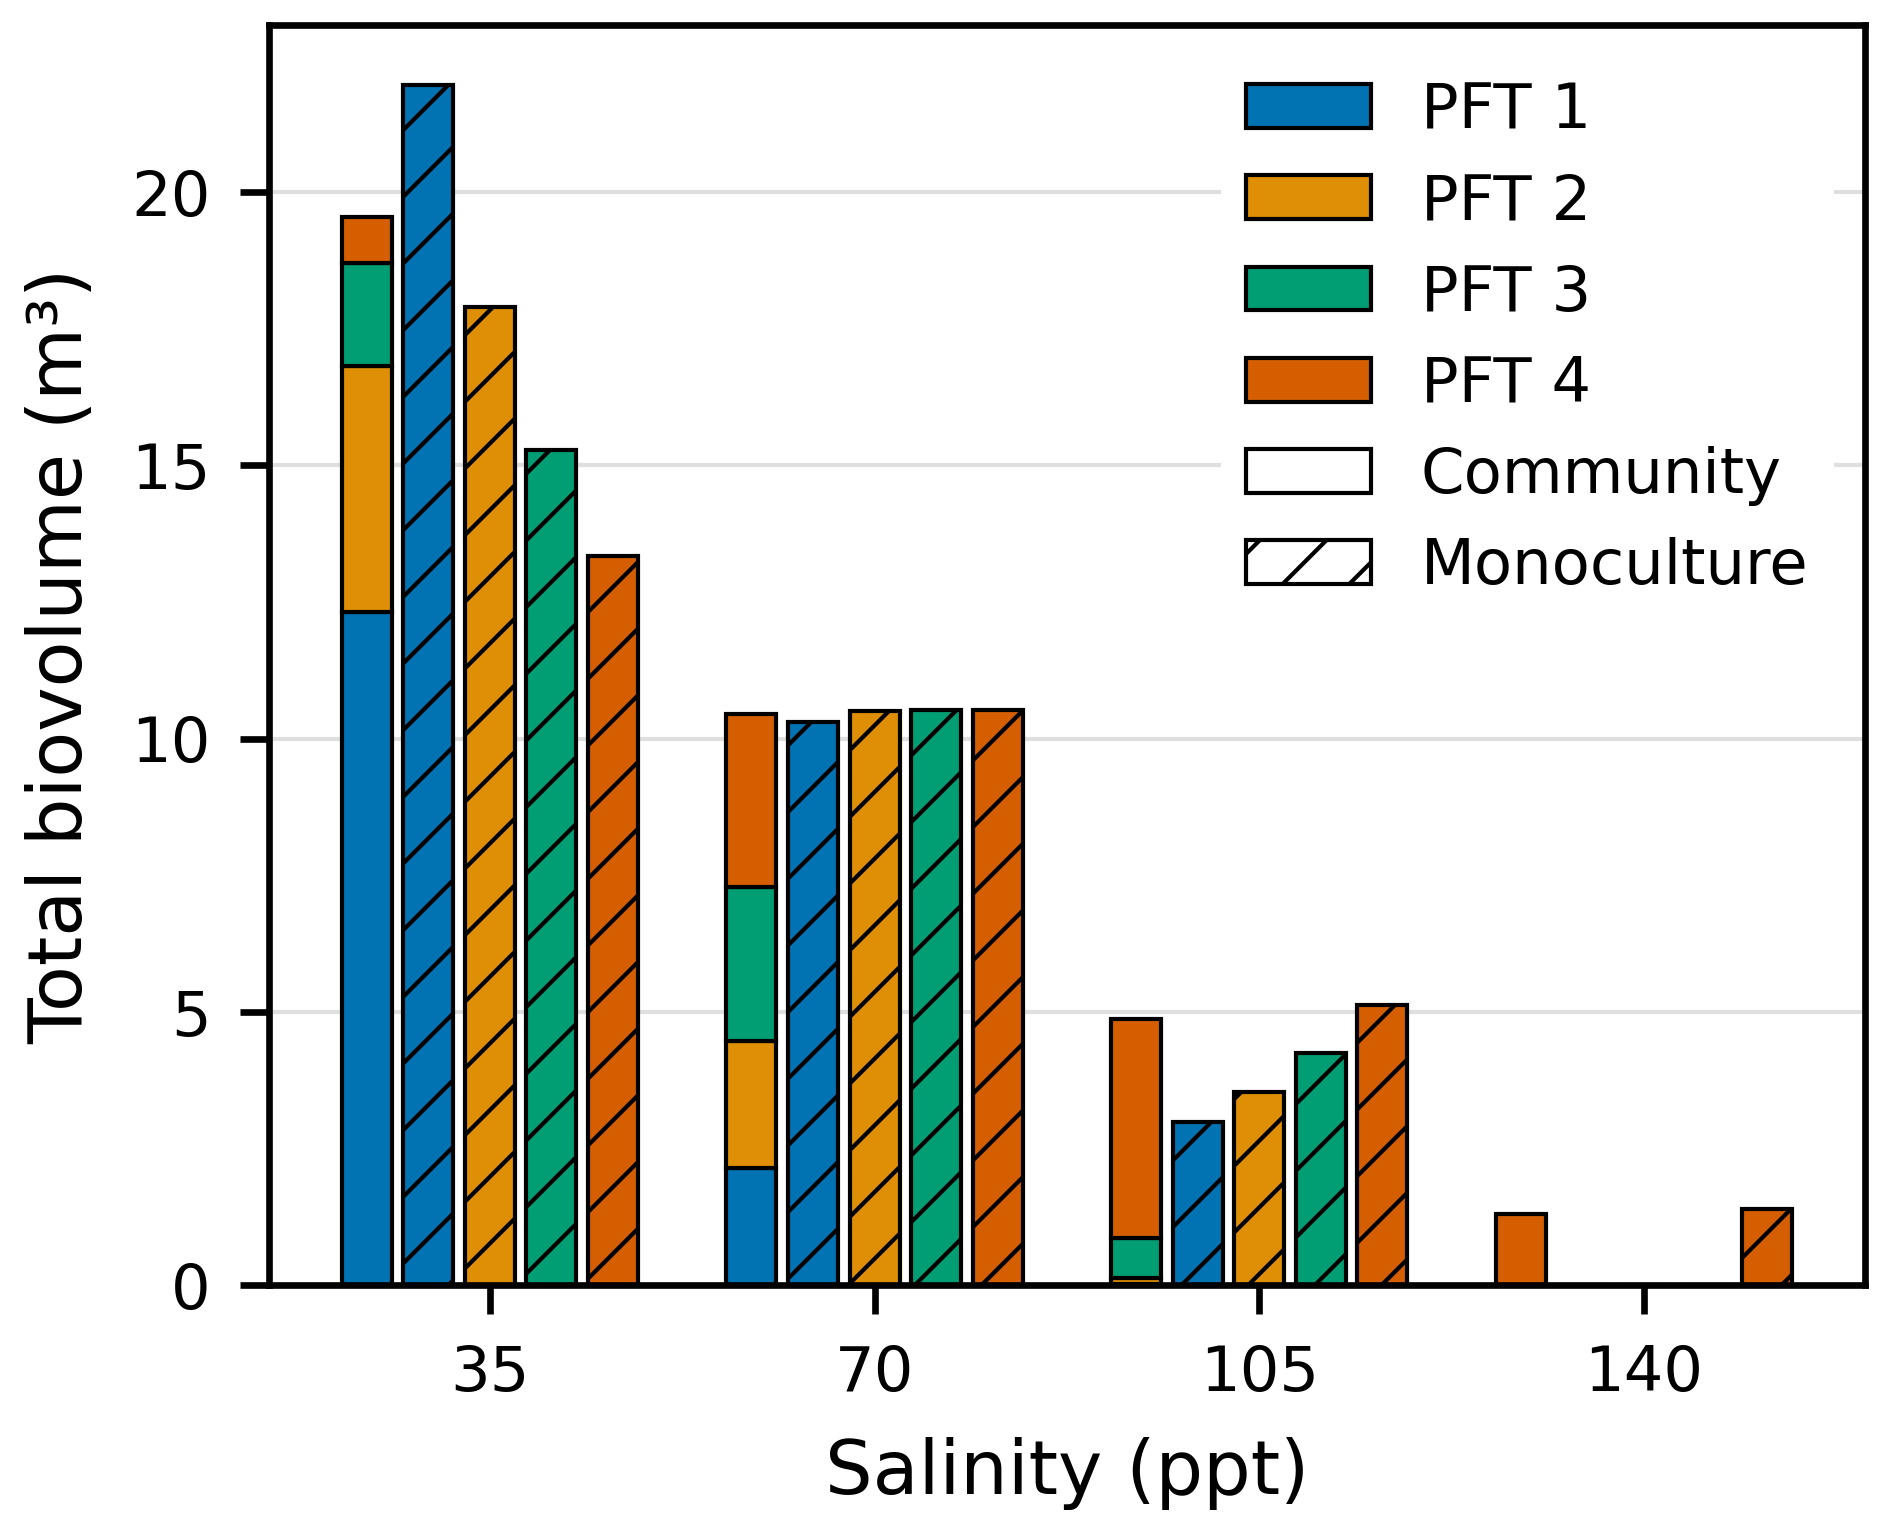
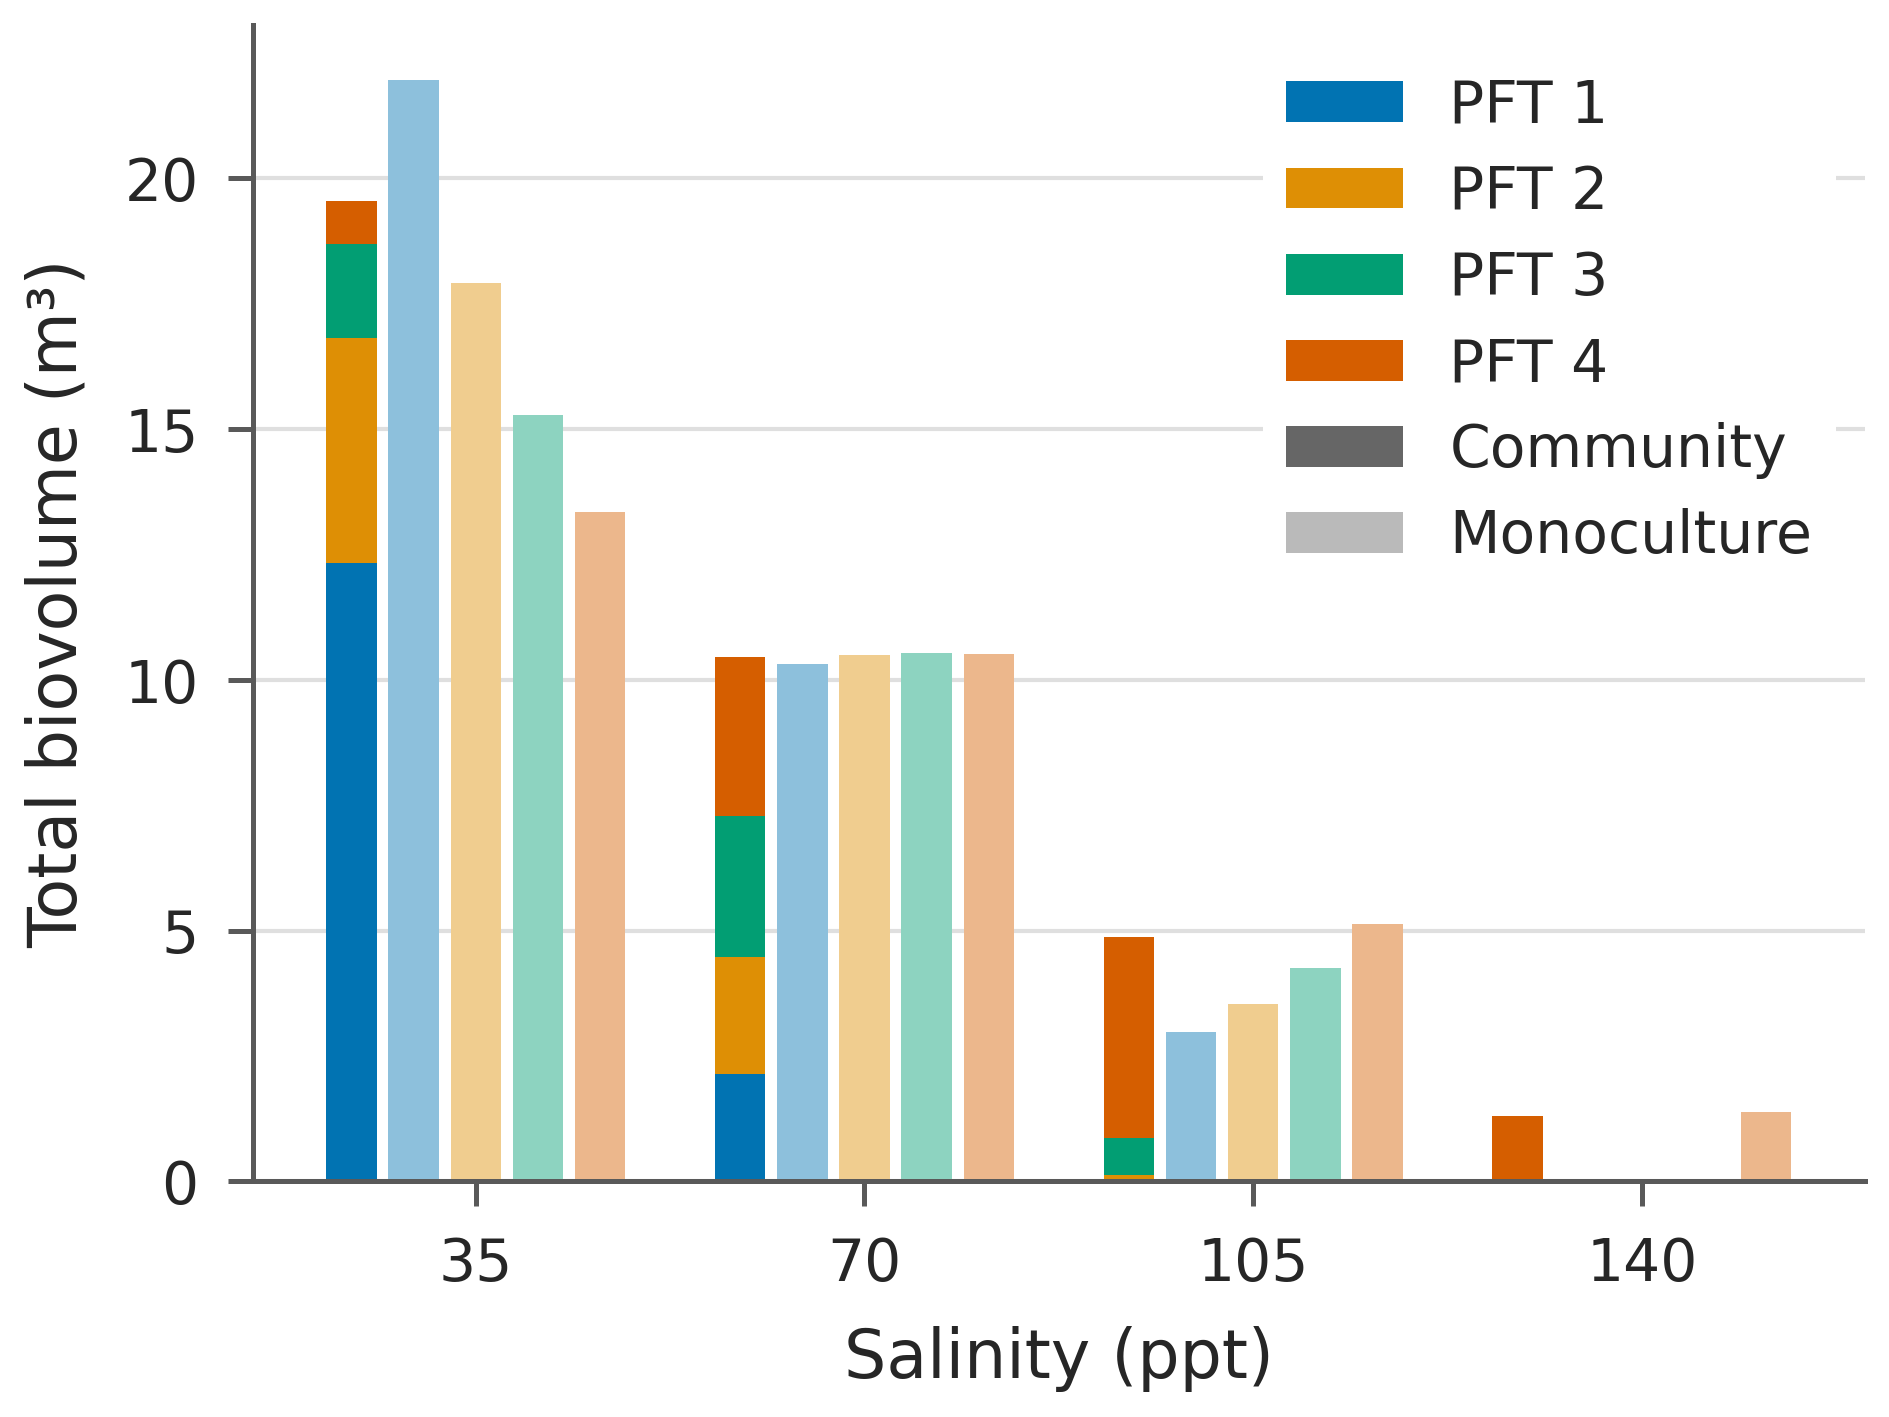
Soften figure style and update figure 2

Changed region(s): [[0.0, 0.0, 0.9995, 0.9936]]

diff --git a/source/03_fig2_community_vs_monoculture.py b/source/03_fig2_community_vs_monoculture.py
@@ -6,8 +6,8 @@
 # Purpose
 # -------
 # This script creates the main static community-vs-monoculture total biovolume
-# figure. Community simulations are shown as stacked PFT contributions, while
-# monoculture simulations are shown as hatched PFT-specific bars.
+# figure. Community simulations are shown as stacked PFT contributions in full
+# colour, while monoculture simulations are shown as pale PFT-specific bars.
 #
 # Data basis
 # ----------
@@ -23,7 +23,7 @@
 
 """
 Manuscript Figure 2:
-Static salinity - community (stacked) vs monoculture (hatched)
+Static salinity - community (stacked) vs monoculture (pale bars)
 
 Output:
     figures/main/fig2_community_vs_monoculture_median.png
@@ -35,6 +35,7 @@ import numpy as np
 import pandas as pd
 
 import matplotlib.pyplot as plt
+from matplotlib.colors import to_rgb
 from matplotlib.patches import Patch
 
 import figure_config as _config
@@ -50,7 +51,8 @@ ensure_dir = _utils.ensure_dir
 # Statistical version -> file prefix of its input tables.
 VERSION_PREFIXES = {"median": "", "mean": "MEAN_"}
 
-HATCH = "///"
+# Colour of the neutral legend entries for community / monoculture.
+LEGEND_GREY = "0.4"
 
 
 # =============================================================================
@@ -65,27 +67,41 @@ def read_matrix(filename):
     return mat
 
 
+def pale(color, strength=0.45):
+    """Opaque mix of a colour with white; strength 1 = original colour."""
+    return tuple(1 - strength * (1 - c) for c in to_rgb(color))
+
+
+def community_style(color):
+    """Full colour, no outline."""
+    return {"facecolor": color, "linewidth": 0}
+
+
+def monoculture_style(color):
+    """Pale colour, no outline."""
+    return {"facecolor": pale(color), "linewidth": 0}
+
+
 def draw_figure(comm_mat, mono_mat):
-    """Draw community (stacked) and monoculture (hatched) bars per salinity."""
-    fig, ax = plt.subplots(figsize=_config.figsize_mm(_config.WIDTH_HALF_MM, 65))
+    """Draw community (stacked) and monoculture (pale) bars per salinity."""
+    fig, ax = plt.subplots(figsize=_config.figsize_mm(_config.WIDTH_HALF_MM, 60))
 
     # Per salinity: one community bar followed by four monoculture bars.
     x_base = np.arange(len(SAL_STATIC))
     bar_gap = 0.16
     width = 0.13
     offsets = np.arange(1 + len(PFTS)) * bar_gap
-    bar_style = {"width": width, "edgecolor": "black", "linewidth": 0.5}
 
     bottom = np.zeros(len(SAL_STATIC))
     for pft in PFTS:
         vals = comm_mat.loc[SAL_STATIC, pft].values
-        ax.bar(x_base + offsets[0], vals, bottom=bottom,
-               color=pft_color_map[pft], **bar_style)
+        ax.bar(x_base + offsets[0], vals, width, bottom=bottom,
+               **community_style(pft_color_map[pft]))
         bottom += vals
 
     for i, pft in enumerate(PFTS, start=1):
-        ax.bar(x_base + offsets[i], mono_mat.loc[SAL_STATIC, pft].values,
-               color=pft_color_map[pft], hatch=HATCH, **bar_style)
+        ax.bar(x_base + offsets[i], mono_mat.loc[SAL_STATIC, pft].values, width,
+               **monoculture_style(pft_color_map[pft]))
 
     ax.set_xticks(x_base + offsets.mean(), [str(s) for s in SAL_STATIC])
     ax.set_xlabel("Salinity (ppt)")
@@ -93,13 +109,12 @@ def draw_figure(comm_mat, mono_mat):
     ax.set_axisbelow(True)
     ax.grid(axis="y", linewidth=0.5, alpha=0.4)
 
-    patch_style = {"edgecolor": "black", "linewidth": 0.5}
     handles = [
-        Patch(facecolor=pft_color_map[pft], label=f"PFT {pft}", **patch_style)
+        Patch(facecolor=pft_color_map[pft], edgecolor="none", label=f"PFT {pft}")
         for pft in PFTS
     ] + [
-        Patch(facecolor="white", label="Community", **patch_style),
-        Patch(facecolor="white", hatch=HATCH, label="Monoculture", **patch_style),
+        Patch(label="Community", **community_style(LEGEND_GREY)),
+        Patch(label="Monoculture", **monoculture_style(LEGEND_GREY)),
     ]
     ax.legend(handles=handles, loc="upper right")
 
@@ -111,7 +126,6 @@ def draw_figure(comm_mat, mono_mat):
 # =============================================================================
 
 _config.apply_style()
-plt.rcParams["hatch.linewidth"] = 0.5
 
 output_dir = ensure_dir(FIGURES_MAIN)
 

diff --git a/source/figure_config.py b/source/figure_config.py
@@ -71,22 +71,43 @@ def figsize_mm(width_mm, height_mm):
 # Global Matplotlib style
 # =============================================================================
 
-def apply_style(base_size=9):
+def apply_style(base_size=8):
     """
     Apply the shared manuscript figure style.
 
     All text sizes are relative to base_size, so changing it scales all text
     together. Figures use constrained layout, so they keep their exact size
     and labels are not cut off. Scripts should not set absolute font sizes.
+
+    Axes, ticks and text are thin and dark grey, without top and right axis
+    lines, so that the data stand out.
     """
+    small_size = base_size * 7 / 8
+    text_color = "0.15"
+    axes_color = "0.35"
+
     mpl.rcdefaults()
     plt.rcParams.update({
         "font.size": base_size,
         "axes.titlesize": "medium",
-        "xtick.labelsize": "small",
-        "ytick.labelsize": "small",
-        "legend.fontsize": "small",
-        "legend.title_fontsize": "small",
+        "xtick.labelsize": small_size,
+        "ytick.labelsize": small_size,
+        "legend.fontsize": small_size,
+        "legend.title_fontsize": small_size,
+        "text.color": text_color,
+        "axes.labelcolor": text_color,
+        "xtick.labelcolor": text_color,
+        "ytick.labelcolor": text_color,
+        "axes.spines.top": False,
+        "axes.spines.right": False,
+        "axes.linewidth": 0.6,
+        "axes.edgecolor": axes_color,
+        "xtick.color": axes_color,
+        "ytick.color": axes_color,
+        "xtick.major.width": 0.6,
+        "ytick.major.width": 0.6,
+        "xtick.major.size": 3,
+        "ytick.major.size": 3,
         # White legend background without border, so gridlines do not show
         # through the legend.
         "legend.edgecolor": "none",

diff --git a/source/02_fig1_salinity_response.py b/source/02_fig1_salinity_response.py
@@ -110,7 +110,7 @@ def main():
     # Reference lines at the simulated salinities. The grid is horizontal only,
     # so these are the only vertical lines.
     for salinity in SALINITY_LINES:
-        ax.axvline(salinity, color="0.45", linewidth=0.8, zorder=1)
+        ax.axvline(salinity, color="0.6", linewidth=0.6, zorder=1)
 
     ax.set_xlabel("Salinity (ppt)")
     ax.set_ylabel(r"$f_{\mathrm{reslim\_bg,Forman}}$ (–)")
